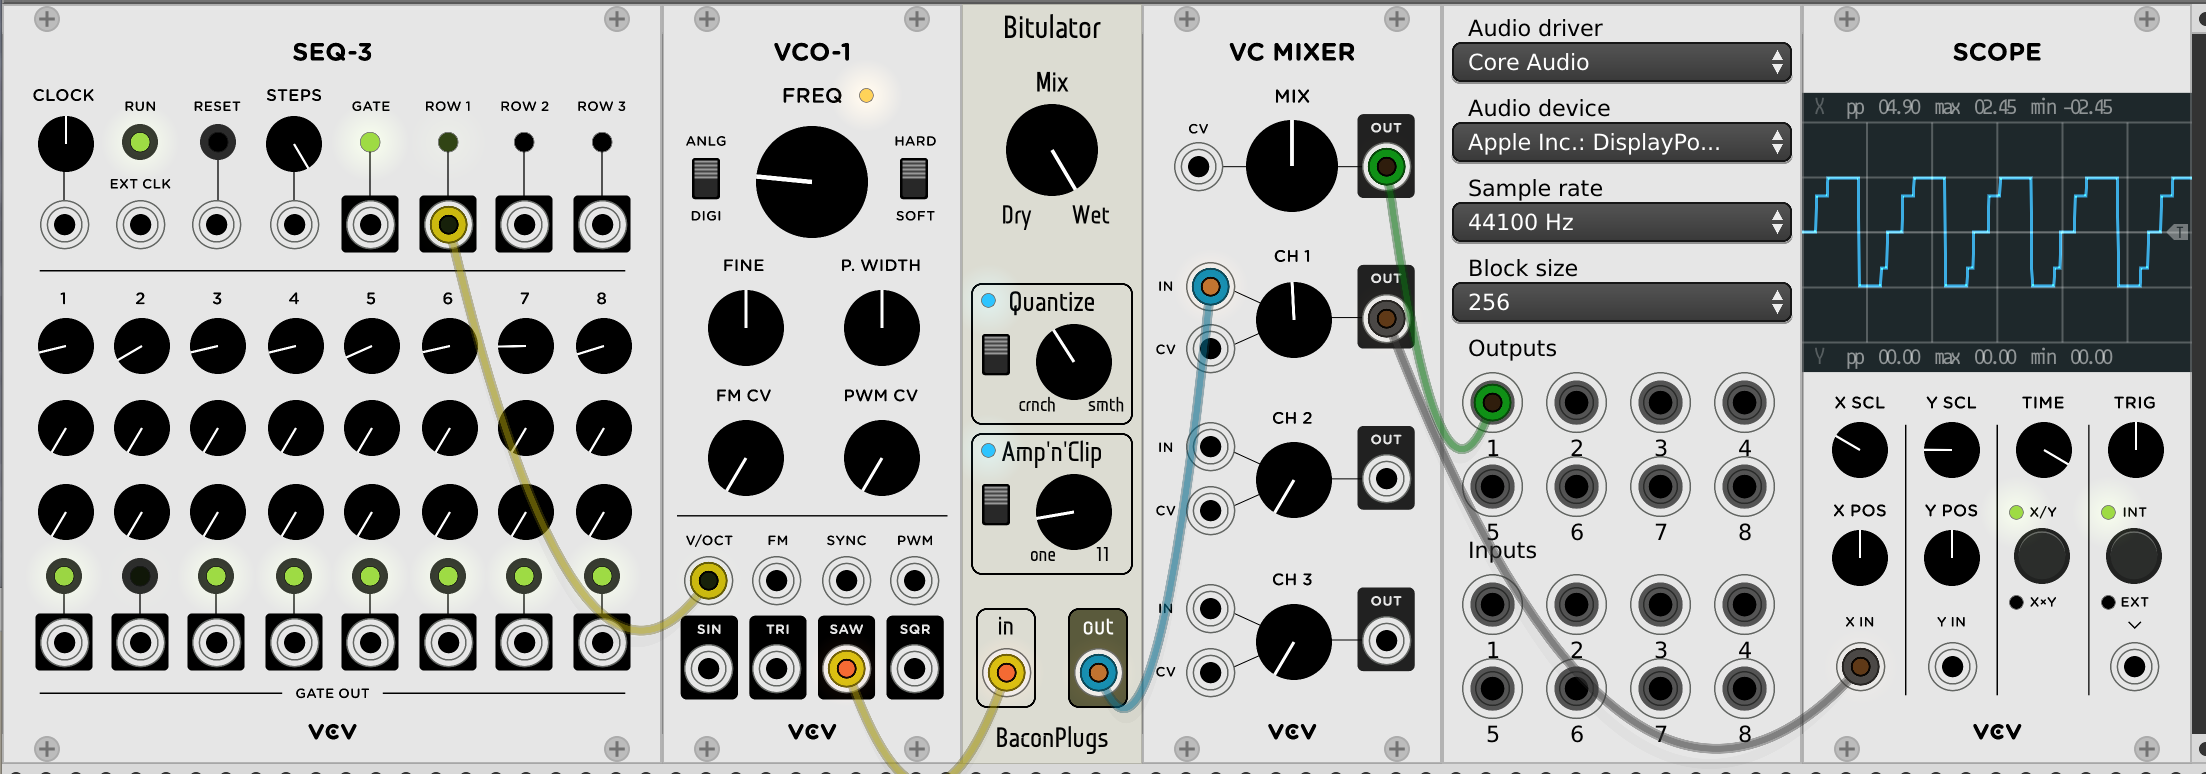
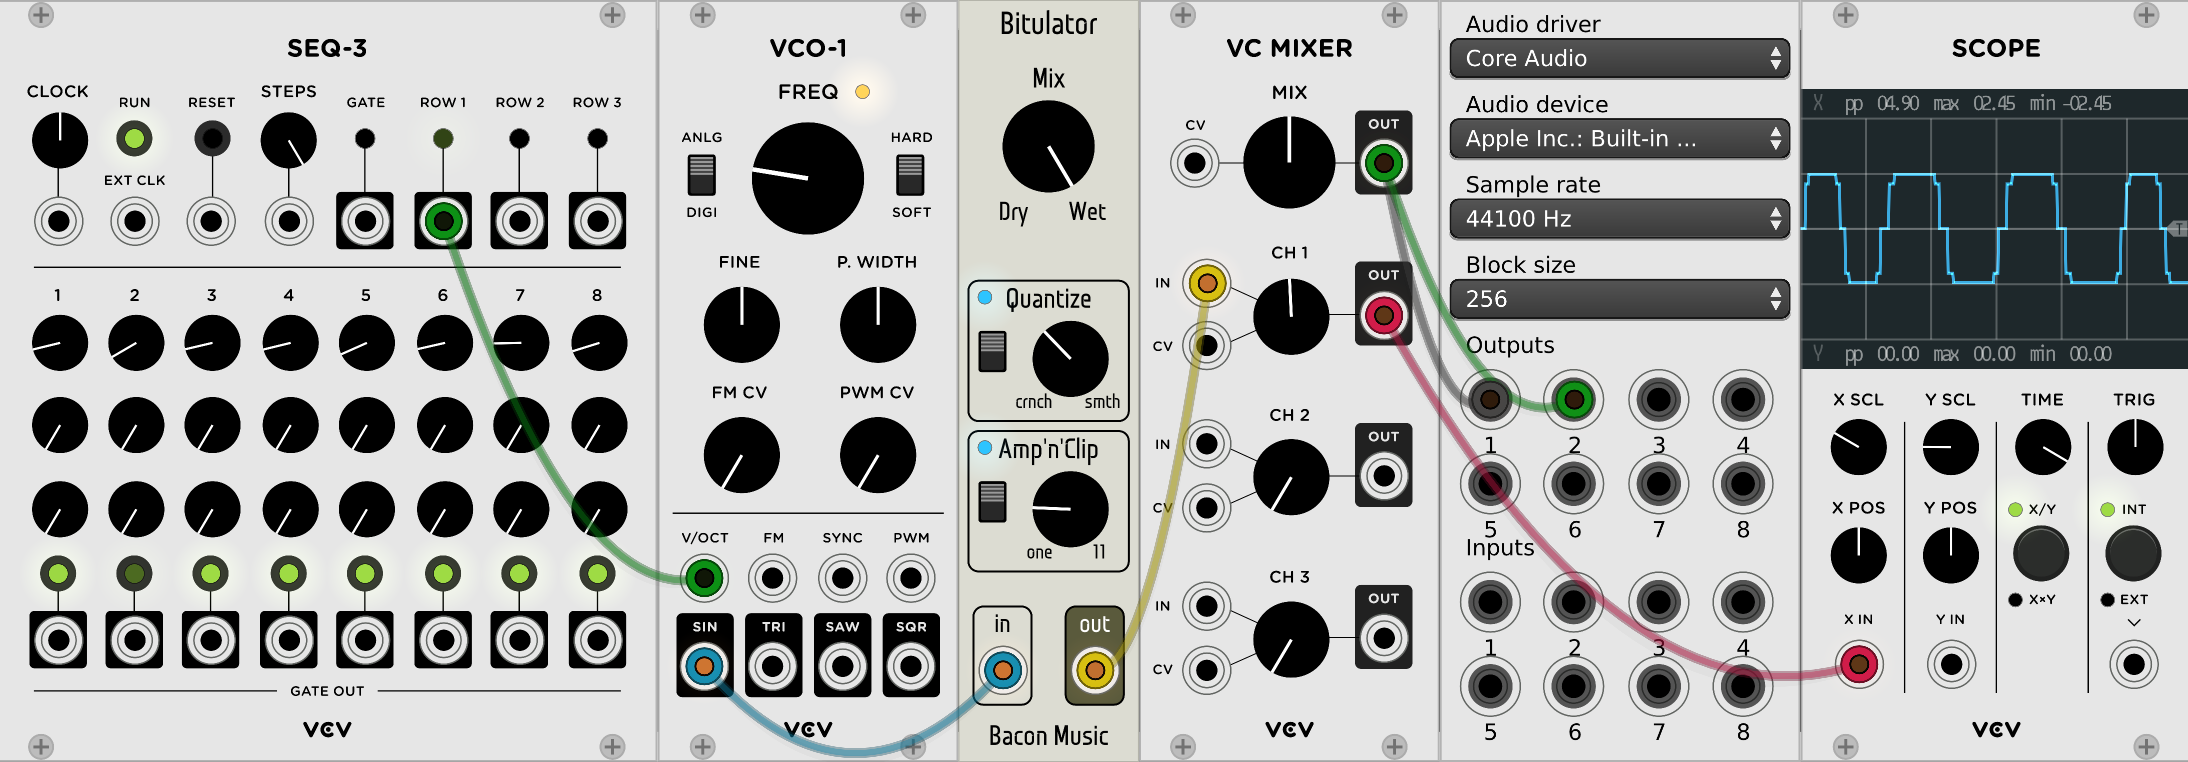
Big slug name change from BaconPlugs to Bacon Music

diff --git a/src/BaconPlugs.cpp b/src/BaconPlugs.cpp
@@ -5,16 +5,16 @@ Plugin *plugin;
 
 void init(rack::Plugin *p) {
 	plugin = p;
-	p->slug = "BaconPlugs";
+	p->slug = "Bacon Music";
 #ifdef VERSION
 	p->version = TOSTRING(VERSION);
 #endif
-	p->website = "https://github.com/baconpaul/BaconPlugs";
+	p->website = "https://github.com/baconpaul/Bacon Music";
 
         // remember these tags are in [plugins.hpp
-	p->addModel(createModel<HarMoNeeWidget>("BaconPlugs", "HarMoNee", "HarMoNee", TUNER_TAG));
-        p->addModel(createModel<GlissinatorWidget>("BaconPlugs", "Glissinator", "Glissinator", EFFECT_TAG)); // TODO: Fix that tag
-        p->addModel(createModel<ALingADingWidget>("BaconPlugs", "ALingADing", "ALingADing", RING_MODULATOR_TAG)); // TODO: Fix that tag
-        p->addModel(createModel<BitulatorWidget>("BaconPlugs", "Bitulator", "Bitulator", DISTORTION_TAG)); // TODO: Fix that tag
-        p->addModel(createModel<QuantEyesWidget>("BaconPlugs", "QuantEyes", "QuantEyes", QUANTIZER_TAG)); // TODO: Fix that tag
+	p->addModel(createModel<HarMoNeeWidget>("Bacon Music", "HarMoNee", "HarMoNee", TUNER_TAG));
+        p->addModel(createModel<GlissinatorWidget>("Bacon Music", "Glissinator", "Glissinator", EFFECT_TAG)); 
+        p->addModel(createModel<ALingADingWidget>("Bacon Music", "ALingADing", "ALingADing", RING_MODULATOR_TAG)); 
+        p->addModel(createModel<BitulatorWidget>("Bacon Music", "Bitulator", "Bitulator", DISTORTION_TAG)); 
+        p->addModel(createModel<QuantEyesWidget>("Bacon Music", "QuantEyes", "QuantEyes", QUANTIZER_TAG)); 
 }

diff --git a/src/Components.cpp b/src/Components.cpp
@@ -104,7 +104,7 @@ void BaconBackground::draw( NVGcontext *vg )
   nvgFillColor( vg, COLOR_BLACK );
   nvgStrokeColor( vg, COLOR_BLACK );
   nvgTextAlign( vg, NVG_ALIGN_CENTER|NVG_ALIGN_BOTTOM );
-  nvgText( vg, box.size.x / 2, box.size.y - 5, "BaconPlugs", NULL );
+  nvgText( vg, box.size.x / 2, box.size.y - 5, "Bacon Music", NULL );
 
   nvgFontFaceId( vg, memFont );
   nvgFontSize( vg, 16 );

diff --git a/README.md b/README.md
@@ -1,7 +1,7 @@
-# BaconPlugs
+# The Bacon Music VCVRack Modules
 
-BaconPlugs are my set of EuroRack style plugins for 
-[VCVRack](http://www.vcvrack.com). The modules are mostly just me noodling around, but 
+"Bacon Music" is my set of EuroRack style plugins for 
+[VCVRack](http://www.vcvrack.com). The modules are mostly inspured by me noodling around, and 
 they sort of fall into two groups. One group deals with control voltage manipulation on 1v/oct signals
 and does things like gliss and musical quantization. The other are wierdo distortions
 and the like I am trying out.
@@ -81,6 +81,15 @@ param. Apply this to a sine wave and turn it up and you get pretty much a perfec
 Combine them for grunky grunk noise. Dumb, but fun. Here's a sample patch.
 
 ![Example Bitulator Patch](doc/Bitulator.png)
+
+## Hey, what's with the repo name "BaconPlugs" vs slug "Bacon Music"
+
+So when I made my git repo I had no idea really how anything worked or if I'd write anything. 
+I was thinking "Hey I'm writing a collection of plugins for this software right". When I went
+with my first release, Andrew Rust pointed out that "BaconPlugs" wasn't a very good name for my 
+plugin and it's collected modules. He did it very politely, of course, and so I changed it to "Bacon Music" 
+for the slug name. The repo is still called BaconPlugs though, because that's more trouble to change than 
+I can handle.
 
 ## License
 
